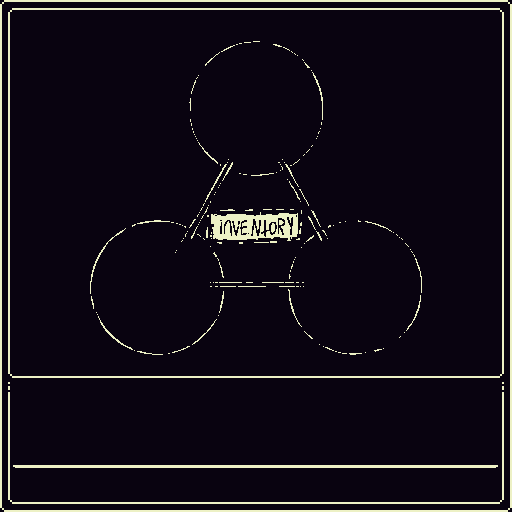
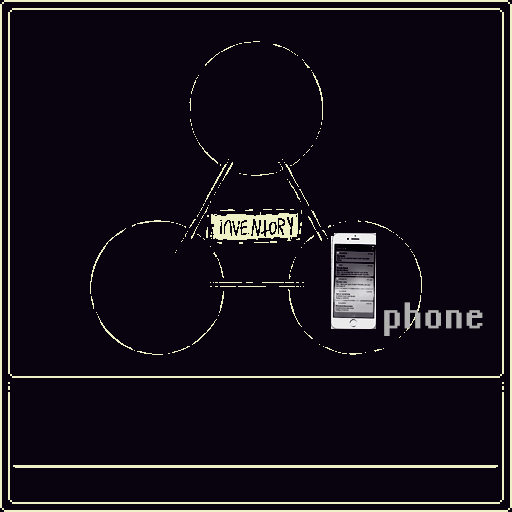
"go outside" ending done

Changed region(s): [[0.625, 0.4375, 0.9375, 0.6562]]

diff --git a/js/game/scenes/SToGTest.js b/js/game/scenes/SToGTest.js
@@ -177,7 +177,21 @@ class SToGTestScene extends Scene {
       }else{
         console.log("Error, inventory room not found");
       }
-      }else {
+    }else if (txt == 'leave') {
+        let entrance = this.gameScript.getRoom("entrance");
+        if(entrance != null){
+          this.setRoom(entrance);
+        }else{
+          console.log("Error, entrance room not found");
+        }
+      }else if (txt == 'cellphone'||txt =='phone') {
+            let cellphone = this.gameScript.getRoom("cellphone");
+            if(cellphone != null){
+              this.setRoom(cellphone);
+            }else{
+              console.log("Error, cellphone room not found");
+            }
+            }else {
       let words = txt.split(" ");
 
       this.displayTextQueue = null;
